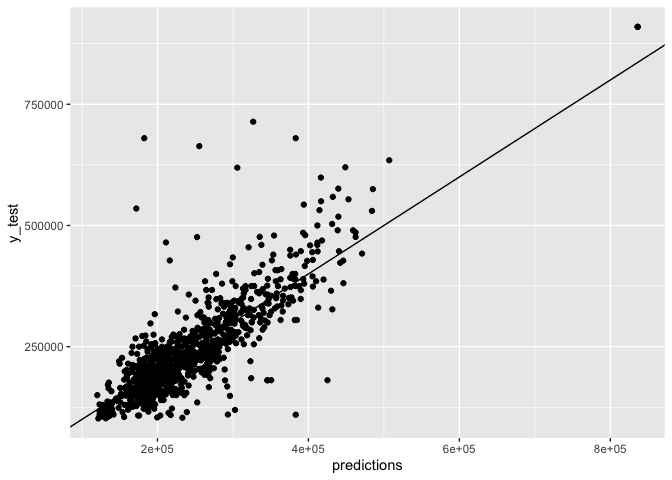
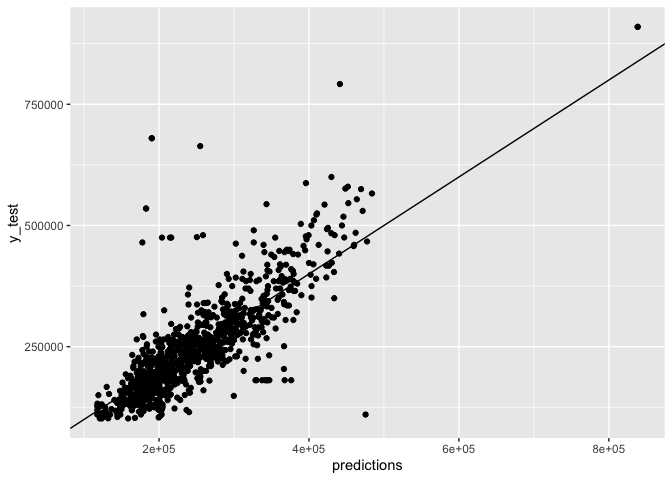
Cleanup for ML graphs

diff --git a/README.md b/README.md
@@ -385,15 +385,16 @@ expensive to super expensive. This probably means this is a fancy area.
 
 Let’s explore data for ML purposes
 
-    ![](README_files/figure-gfm/unnamed-chunk-24-1.png)<!-- -->![](README_files/figure-gfm/unnamed-chunk-24-2.png)<!-- -->![](README_files/figure-gfm/unnamed-chunk-24-3.png)<!-- -->![](README_files/figure-gfm/unnamed-chunk-24-4.png)<!-- -->![](README_files/figure-gfm/unnamed-chunk-24-5.png)<!-- -->
+![](README_files/figure-gfm/unnamed-chunk-24-1.png)<!-- -->![](README_files/figure-gfm/unnamed-chunk-24-2.png)<!-- -->![](README_files/figure-gfm/unnamed-chunk-24-3.png)<!-- -->![](README_files/figure-gfm/unnamed-chunk-24-4.png)<!-- -->![](README_files/figure-gfm/unnamed-chunk-24-5.png)<!-- -->
 
-We notice
+We notice not much correlations. Also varying behavior based on various
+factors. So simple linear regression or clustering won’t work.
 
 ### Model training
 
-Let’s use
+Let’s use Random Forest Regression as decision trees certainly help
+determine the important features.
 
-    ```
     ## + Fold1: mtry= 1 
     ## - Fold1: mtry= 1 
     ## + Fold1: mtry= 2 
@@ -437,13 +438,12 @@ Let’s use
     ## Aggregating results
     ## Selecting tuning parameters
     ## Fitting mtry = 2 on full training set
-    ```
 
-model trained
+After model is trained, let’s see most important features, RMSE and our
+prediction VS actual plots.
 
-    ![](README_files/figure-gfm/unnamed-chunk-26-1.png)<!-- -->
+![](README_files/figure-gfm/unnamed-chunk-26-1.png)<!-- -->
 
-    ```
     ## Random Forest 
     ## 
     ## 2164 samples
@@ -455,22 +455,23 @@ model trained
     ## Resampling results across tuning parameters:
     ## 
     ##   mtry  RMSE      Rsquared   MAE     
-    ##    1    74456.03  0.5127769  45507.64
-    ##    2    72923.95  0.5093105  42120.89
-    ##    3    73355.76  0.5033146  42080.73
-    ##    4    73716.99  0.4993198  41996.37
-    ##    5    74236.53  0.4932825  42230.26
-    ##    6    74968.04  0.4847666  42342.72
-    ##    7    74908.84  0.4857841  42391.49
-    ##    8    75496.82  0.4793796  42580.84
-    ##    9    76034.79  0.4740880  42683.18
-    ##   10    76484.01  0.4689018  42831.55
+    ##    1    68793.19  0.6034500  43723.38
+    ##    2    63716.67  0.6257534  39073.08
+    ##    3    63738.58  0.6215806  38852.04
+    ##    4    64300.65  0.6134852  38971.08
+    ##    5    64381.16  0.6118784  39112.07
+    ##    6    64795.40  0.6068127  39314.46
+    ##    7    65311.30  0.6004855  39460.82
+    ##    8    65672.23  0.5960514  39632.83
+    ##    9    65701.10  0.5958810  39777.38
+    ##   10    66049.44  0.5914775  39974.89
     ## 
     ## RMSE was used to select the optimal model using the smallest value.
     ## The final value used for the model was mtry = 2.
-    ```
 
-    ![](README_files/figure-gfm/unnamed-chunk-26-2.png)<!-- -->
+![](README_files/figure-gfm/unnamed-chunk-26-2.png)<!-- -->
+
+Most important feature is neighborhood which makes sense.
 
 We see our model predicts quite accurately. Will optimize further for
 finer tuning later.
